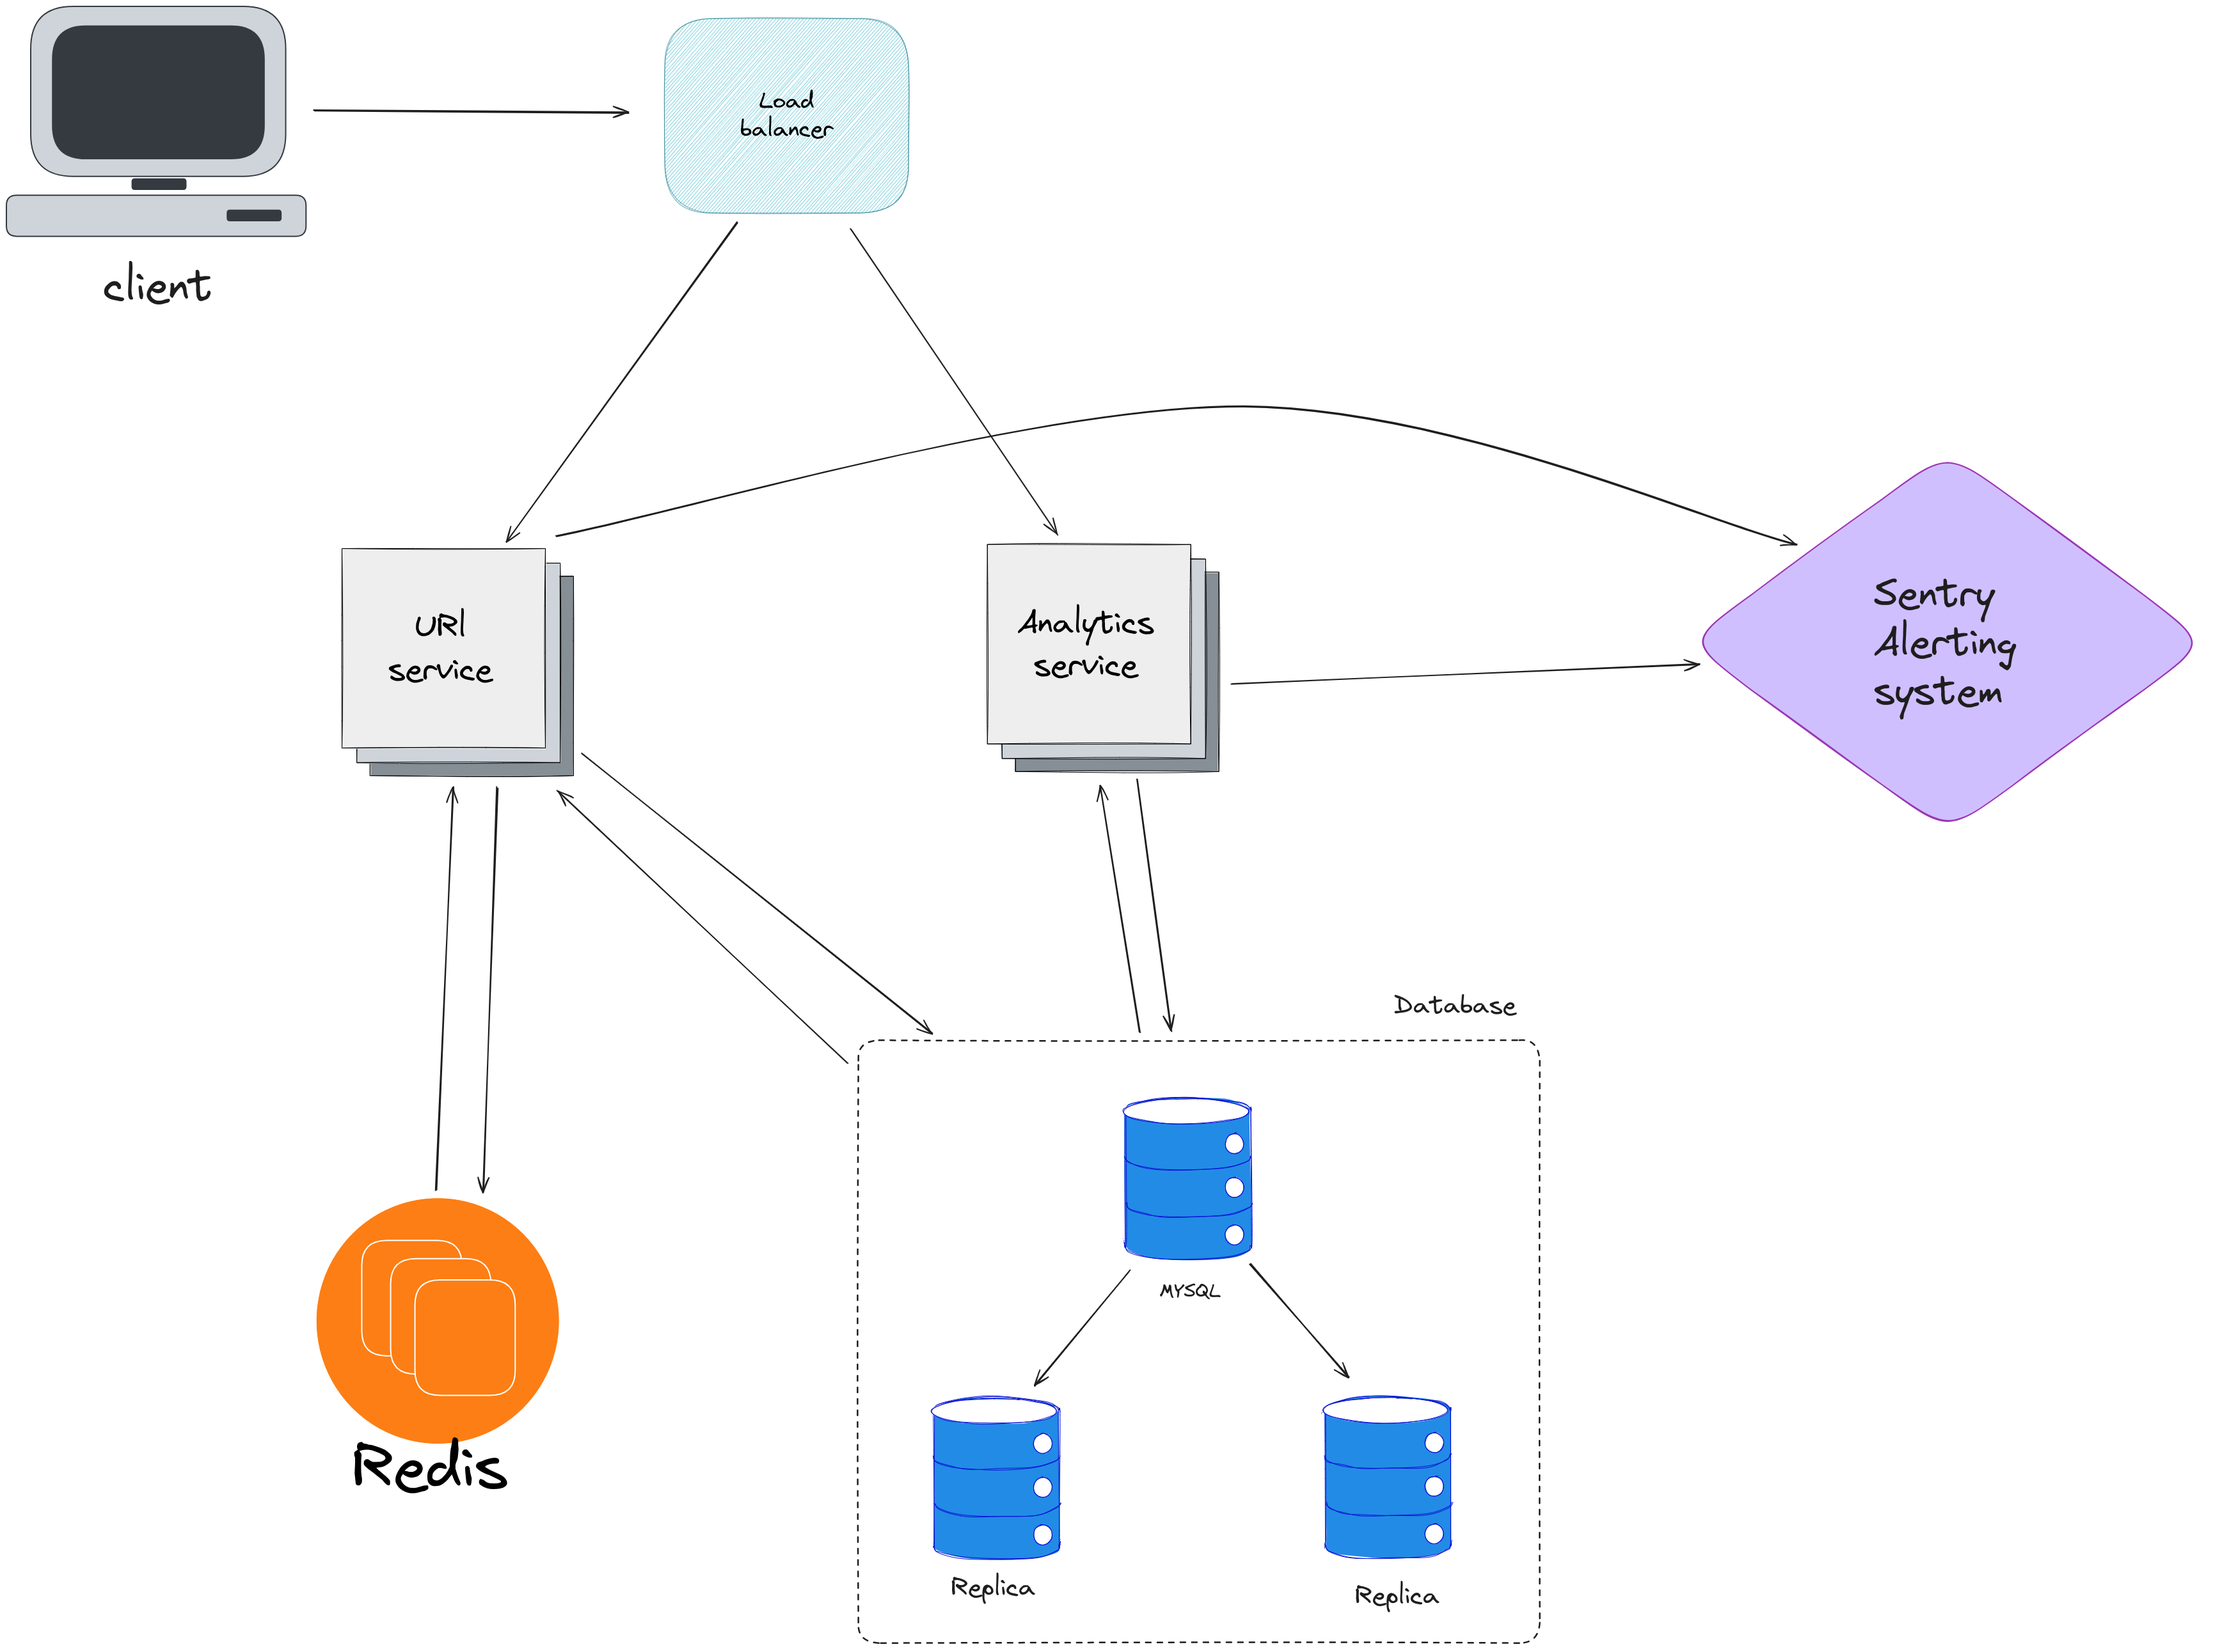
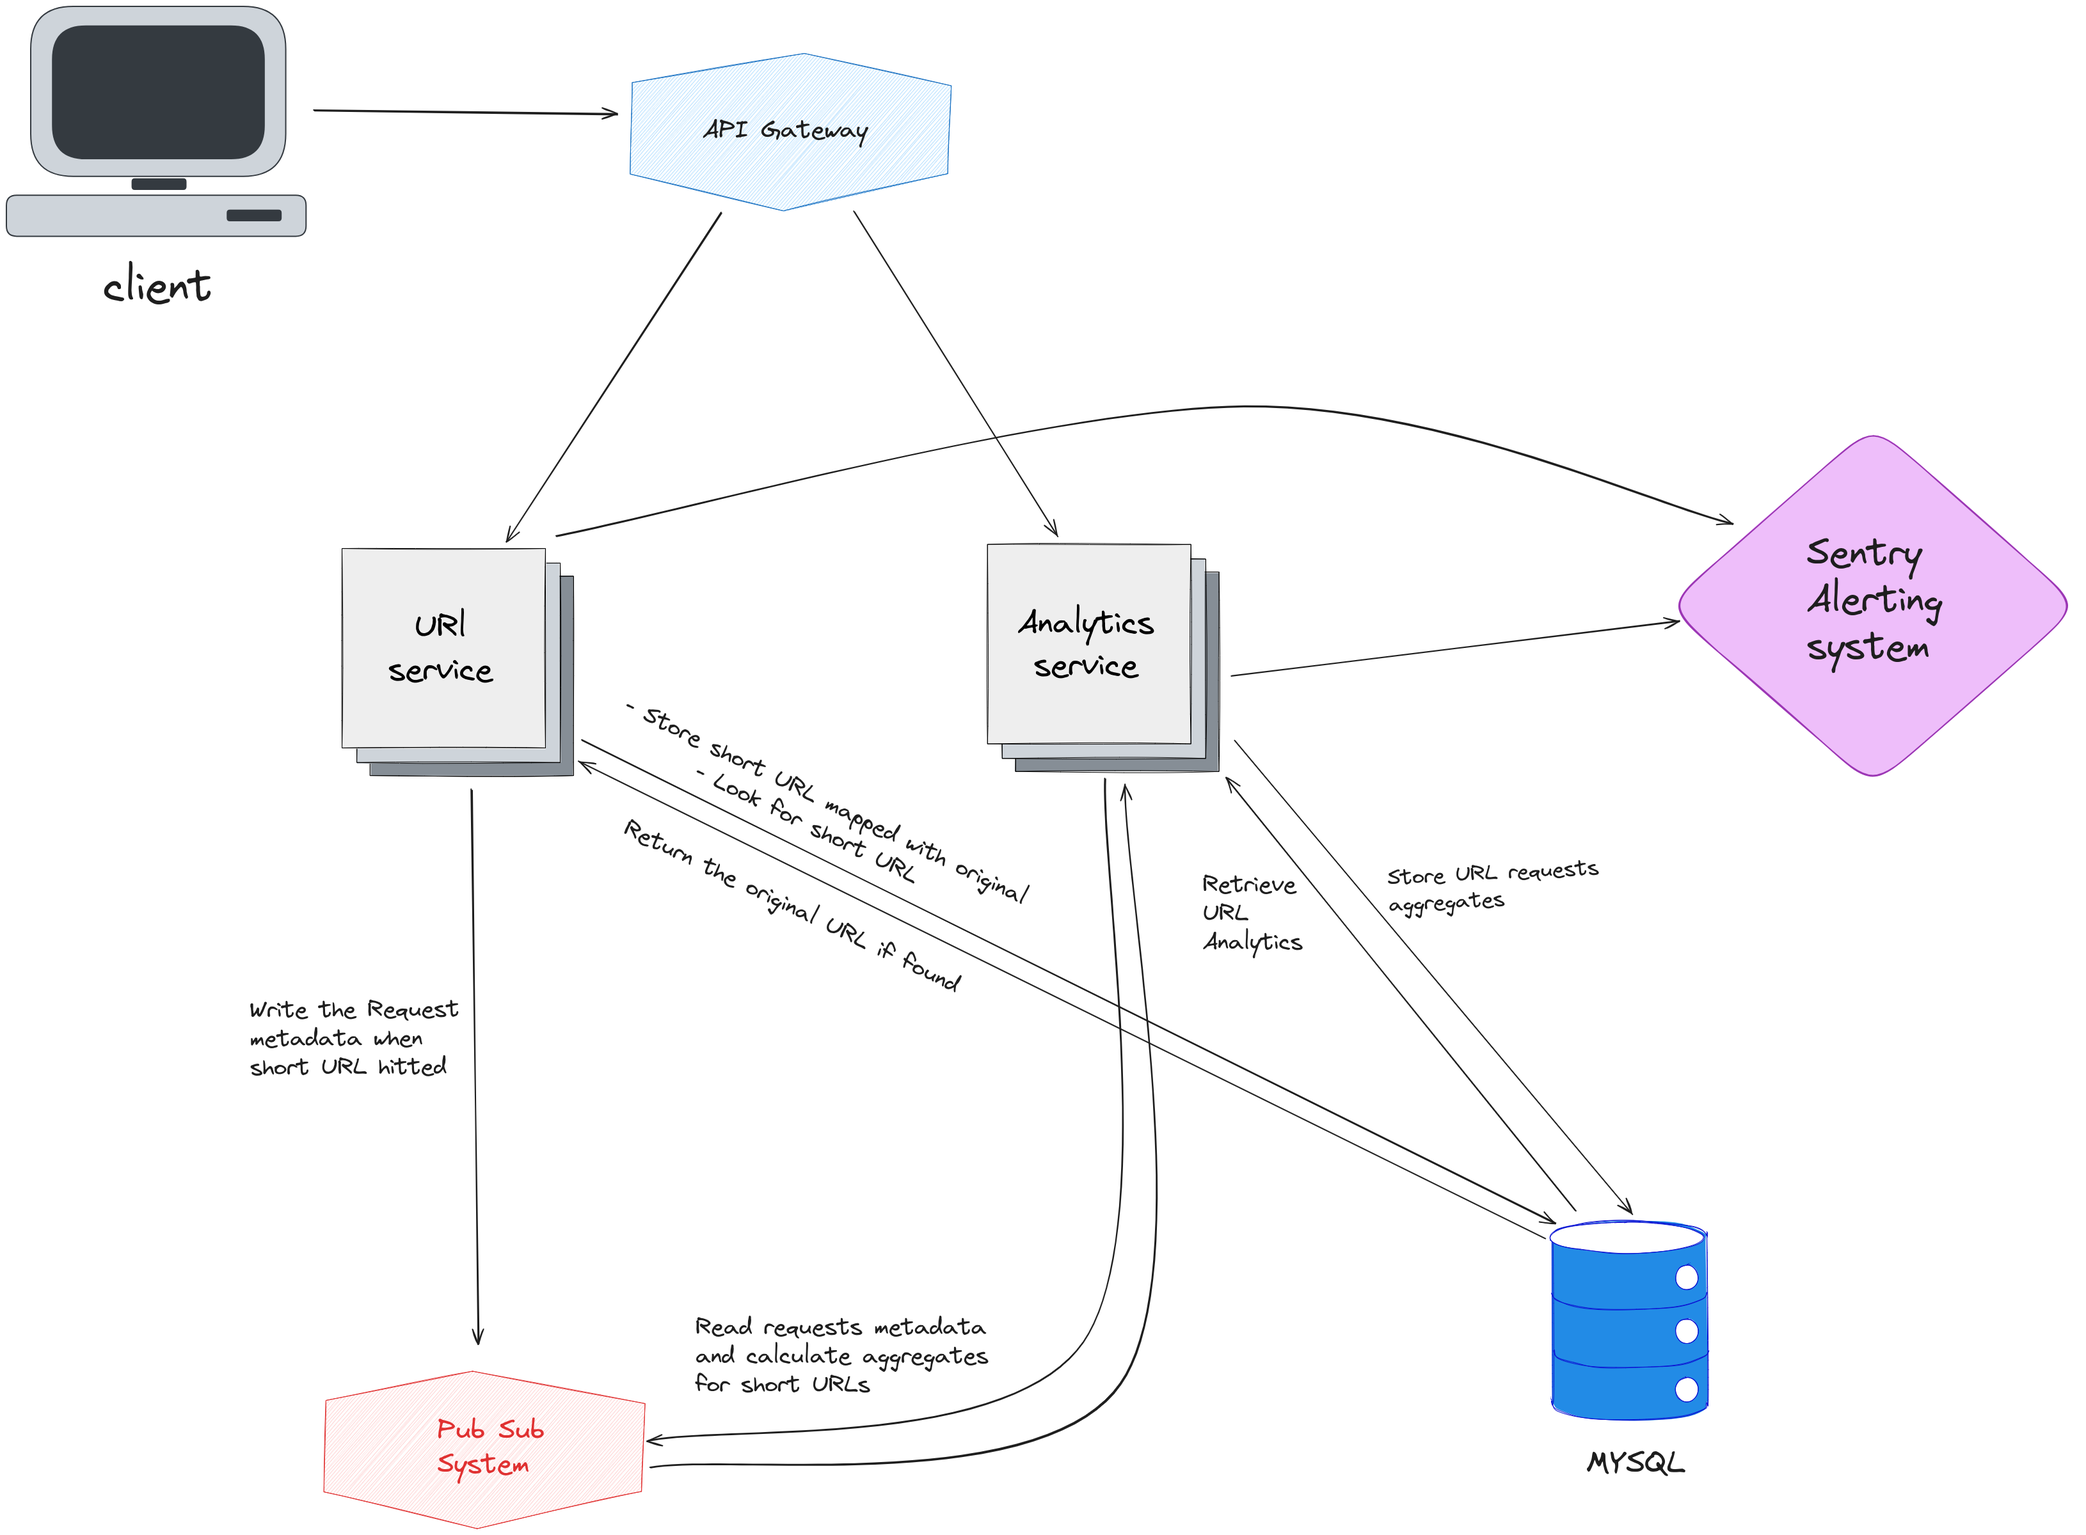
update the readme file

diff --git a/README.md b/README.md
@@ -5,17 +5,43 @@ URL Shortener
 - Golang
 - Chi
 - Mysql
-- Redis Caching
+- Pub Sub system
 
 ## Use Cases
 - User Send URL to be Shortened
 - User hits a shortened URL
 - User wants to see metrics for his url
 
-## Constraints
-*State Constraints*
-- URL max length is 2048 Bytes 
-- shortened URL should be less than or equal 75 bytes (average number for URL length)
+## Constraints & Assumptions
+*State Assumptions*
+
+The App is expected to have 100M requests per month
+so the average per day is around 3.3M and 40 request per Second.
+
+- 100M requests per month
+
+    - Anticipating a high volume of requests (3.3M per day, 40 per second).
+    - System needs to handle this load efficiently.
+
+
+- Read-to-write ratio of 10:1
+
+  - Multiple reads for each URL created.
+  - Read operations are more frequent than writes.
+
+
+- Database record size
+  - Each record estimated to be around 283 bytes.
+  - Includes fields like ID, userID, short URL, created at, and original URL.
+  - Understanding data size aids in storage estimation and optimization.
+
+
+- Database read and write times
+
+  - Reads take ~= 10-20 milliseconds.
+  - Writes take ~= 50-100 milliseconds.
+  - Since that the operations takes few milliseconds and maybe reduced because of the indexing we decided not to use cache in the system 
+
 
 
 
@@ -46,13 +72,21 @@ The URL service has two functionalities.
 
    - When a user accesses a shortened URL, the service handles the redirection process.
    - First, the service checks if the shortened URL is present in the cache.
-   - If the URL is found in the cache, the service directly redirects the user to the corresponding original URL.
-   - If the URL is not found in the cache, the service searches for it in the database.
-   - If the URL is found in the database, the service stores it in the cache for future requests.
+   - The service searches for it in the database.
+   - If the URL is found in the database
+   - Send The Request metadata to the pub-sub system for analytics
    - The user is then redirected to the original URL associated with the shortened URL.
 
 
 ### Analytics service
+The URL Shortening Service integrates with a Pub/Sub system to handle incoming requests. Metadata for each request sent to a shortened URL is published to the Pub/Sub system, where it is processed to calculate aggregates. These aggregates are then stored in the database, providing users with efficient access to analytics.
+
+Users can retrieve specific insights from the database by querying the pre-calculated aggregates. This approach offers improved performance and scalability compared to calculating analytics on-demand.
+
+The stored aggregates enable users to gather insights such as the region with the highest number of hits, hit rate within specific time intervals, and other custom analytics. With this setup, users have the flexibility to define and retrieve the analytics they need without constraints.
+
+By leveraging the database's query capabilities, users can formulate tailored queries to extract desired analytics efficiently. This architecture empowers users to explore and derive insights based on their unique requirements, while ensuring optimal performance and scalability of the analytics service.
+
 
 
 ### Choice of MD5 Hashing Algorithm
@@ -85,17 +119,6 @@ This results in an extensive set of possible combinations, well exceeding a tril
 
 
 
-### Return Analytics For The shortened URL
-The URL Shortening Service provides a flexible analytics feature that allows users to retrieve specific insights based on the metadata stored for each request made to a shortened URL. The analytics are calculated using a query language, providing users with full flexibility to define the analytics they want to see.
-
-The metadata for all requests made to a URL is stored, enabling users to gather insights and perform various analyses. By storing comprehensive request metadata, the service ensures that users have the flexibility to extract specific analytics based on their requirements.
-
-For instance, users can inquire about the region with the highest number of hits, determine the hit rate within a specific time interval, or explore other custom analytics. Since the service cannot anticipate all possible analytics scenarios, it empowers users to take control and define the specific analytics they want to generate.
-
-By leveraging the query language, users can formulate tailored queries to extract the desired analytics from the stored metadata. This approach ensures that users have the freedom to explore and derive insights based on their unique needs, without being constrained by predefined analytics.
-
-
-
 
 ### Database
 For Database, we decided to rely on MySQL and use Sharding to increase the performance of DB when data gets bigger
@@ -115,7 +138,7 @@ the table URLs is for storing the original URL mapped with the short one, the ta
 key for the user that owns this short url.
 the last table Requests is for storing the metadata of requests happen to URLs to calculate the metrics for URLs 
 
-
+<!-- 
 ### Caching
 In our caching strategy, we aim to optimize performance and reduce response time by leveraging a cache to store URLs with a high hit rate. When a user requests a short URL, we employ the following caching approach:
 
@@ -141,8 +164,7 @@ In our caching strategy, we aim to optimize performance and reduce response time
    - The cache utilizes a key-value structure, where the short URL serves as the key, and the original URL is stored as the corresponding value.
    - For example, a key-value pair in the cache might be "bit.ly/sdXTCs": "www.facebook.com".
    - This key-value mapping enables efficient and quick lookups when serving requests for shortened URLs.
-
-
+-->
 
 ### Alerting & Error monitoring
 Implementing an alerting and error monitoring system helps enhance the reliability of the URL Shortening Service and reduce downtime. Here's how it benefits the application:
